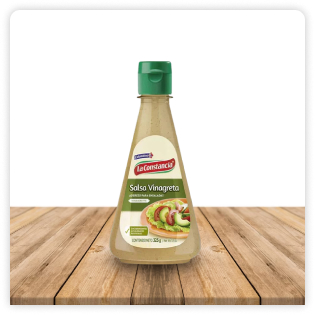
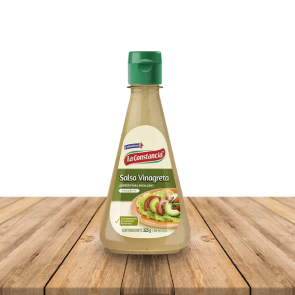
change images

diff --git a/index.html b/index.html
@@ -74,7 +74,7 @@
         <div class="content-card">
           <div class="product-card">
             <figure class="img-card">
-              <img src="./assets/img/img-mayonesa.png" alt="salsa">
+              <img src="./assets/img/img-mayonesa.jpg" alt="salsa">
             </figure>
             <div class="footer-card">
               <span>$ 10.800</span>
@@ -96,7 +96,7 @@
         <div class="content-card">
           <div class="product-card">
             <figure class="img-card">
-              <img src="./assets/img/img-atun.png" alt="atun">
+              <img src="./assets/img/img-atun.jpg" alt="atun">
             </figure>
             <div class="footer-card">
               <span>$ 10.800</span>
